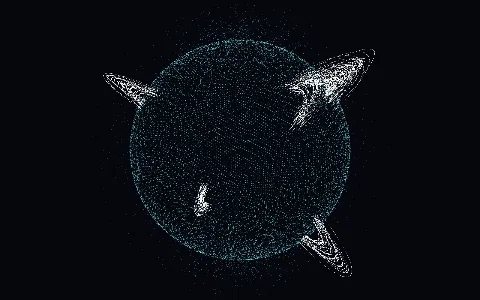
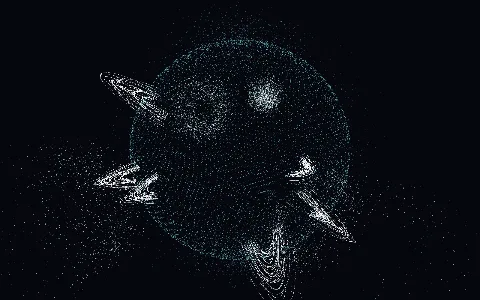
feat: Solar eruptions (prominences + CMEs) + 3D spiral galaxy (v0.1.54)
Solar Corona: active sites now erupt on a staggered cycle — confined prominences (rise & fall) and CMEs (escape) flung out as curved plasma jets; new 'eruptions' rate. Spiral Galaxy: real 3-D depth — spheroidal bulge, flaring disk scale-height, inclined view. Docs + changelog + thumbnails.

diff --git a/src/archetypes/solarCorona.ts b/src/archetypes/solarCorona.ts
@@ -28,6 +28,15 @@ class SolarCoronaArchetype implements Archetype {
   private readonly positions: Float32Array;
   private readonly colors: Float32Array;
   private spin = 0.15;
+  private erSpeed = 0.28; // eruption cycle rate
+  // erupting plasma (prominences + CMEs) — trajectories computed per frame, not baked as static points
+  private ejStart = 0; // index where the ejecta block begins
+  private ejN = 0;
+  private ejAnchor = new Float64Array(0); // unit launch anchor (site + spread)
+  private ejTan = new Float64Array(0); // tangential drift direction
+  private ejS = new Float64Array(0); // peak height
+  private ejEsc = new Uint8Array(0); // 1 = escapes (CME), 0 = rises & falls back (prominence)
+  private ejPh = new Float64Array(0); // eruption phase offset
   private t = 0;
   private buildKey = '';
   private readonly seed: number;
@@ -52,15 +61,17 @@ class SolarCoronaArchetype implements Archetype {
     const loopH = p.loopHeight ?? 0.32;
     const activity = p.activity ?? 0.5; // fraction of points spent on loops vs surface
     this.spin = p.spin ?? 0.15;
+    this.erSpeed = p.eruptions ?? 0.28;
     this.buildKey = this.keyOf(p);
     const rng = mulberry32((this.seed ^ 0x9e3779b9) >>> 0);
     const N = this.particleCount;
     const col = this.colors;
 
+    const nEject = Math.floor(N * 0.16); // erupting plasma (prominences + CMEs)
     const nLoop = Math.floor(N * clamp01(activity)); // coronal loops
     const nPlume = Math.floor(N * 0.05); // polar plumes
-    const nHalo = Math.floor(N * 0.07); // soft corona halo (limb glow + extension)
-    const nSurf = N - nLoop - nPlume - nHalo; // granular surface shell
+    const nHalo = Math.floor(N * 0.06); // soft corona halo (limb glow + extension)
+    const nSurf = N - nLoop - nPlume - nHalo - nEject; // granular surface shell
 
     let idx = 0;
     const put = (x: number, y: number, z: number, r: number, g: number, b: number): void => {
@@ -148,28 +159,85 @@ class SolarCoronaArchetype implements Archetype {
       put(nx * rad, ny * rad, nz * rad, v * 0.18, v * 0.6, v * 0.8);
     }
 
+    // ── erupting plasma: prominences (rise & fall) and CMEs (escape) launched from a few active sites,
+    //    each site cycling with a staggered phase. Trajectories are computed live in syncPositions; here
+    //    we bake each particle's launch geometry. This block is contiguous at the END of the buffer. ──
+    this.ejStart = idx;
+    this.ejN = N - idx;
+    const M = this.ejN;
+    this.ejAnchor = new Float64Array(M * 3);
+    this.ejTan = new Float64Array(M * 3);
+    this.ejS = new Float64Array(M);
+    this.ejEsc = new Uint8Array(M);
+    this.ejPh = new Float64Array(M);
+    const nSites = 4;
+    const sites: number[][] = [];
+    for (let s = 0; s < nSites; s++) {
+      const lat = (12 + 34 * rng()) * (Math.PI / 180) * (rng() < 0.5 ? 1 : -1);
+      const lon = rng() * TAU;
+      const cx = Math.cos(lat) * Math.cos(lon), cy = Math.sin(lat), cz = Math.cos(lat) * Math.sin(lon);
+      const [t1x, t1y, t1z, t2x, t2y, t2z] = tangentBasis(cx, cy, cz);
+      sites.push([cx, cy, cz, t1x, t1y, t1z, t2x, t2y, t2z, s / nSites]); // last = phase offset
+    }
+    for (let k = 0; k < M; k++) {
+      const S = sites[k % nSites];
+      const spread = 0.12 * Math.sqrt(rng());
+      const sa = rng() * TAU;
+      // anchor: site centre nudged by a small tangential spread (the eruption's footprint)
+      let ax = S[0] + (S[3] * Math.cos(sa) + S[6] * Math.sin(sa)) * spread;
+      let ay = S[1] + (S[4] * Math.cos(sa) + S[7] * Math.sin(sa)) * spread;
+      let az = S[2] + (S[5] * Math.cos(sa) + S[8] * Math.sin(sa)) * spread;
+      const al = Math.hypot(ax, ay, az) || 1; ax /= al; ay /= al; az /= al;
+      // tangential drift direction (the arc lean)
+      const ta = rng() * TAU;
+      this.ejTan[k * 3] = S[3] * Math.cos(ta) + S[6] * Math.sin(ta);
+      this.ejTan[k * 3 + 1] = S[4] * Math.cos(ta) + S[7] * Math.sin(ta);
+      this.ejTan[k * 3 + 2] = S[5] * Math.cos(ta) + S[8] * Math.sin(ta);
+      this.ejAnchor[k * 3] = ax; this.ejAnchor[k * 3 + 1] = ay; this.ejAnchor[k * 3 + 2] = az;
+      const esc = rng() < 0.35;
+      this.ejEsc[k] = esc ? 1 : 0;
+      this.ejS[k] = esc ? 0.8 + 1.0 * rng() : 0.3 + 0.5 * rng(); // CMEs fly higher than confined prominences
+      this.ejPh[k] = S[9] + (rng() - 0.5) * 0.12; // share the site's phase (erupt together), slight jitter
+      const bri = 1.1 + 0.5 * rng();
+      put(ax * R, ay * R, az * R, 0.55 * bri, 0.92 * bri, 1.0 * bri); // hot cyan-white plasma
+    }
+
     // any leftover slots (rounding) → dim surface points at the origin-safe shell
     while (idx < N) put(0, R, 0, 0.02, 0.1, 0.14);
     this.syncPositions();
   }
 
   private syncPositions(): void {
-    const N = this.particleCount;
     const pos = this.positions;
+    const t = this.t;
     // solar rotation about a slightly tilted axis
-    const th = this.spin * this.t;
+    const th = this.spin * t;
     const ct = Math.cos(th), st = Math.sin(th);
     const tilt = 0.12, ctl = Math.cos(tilt), stl = Math.sin(tilt);
-    for (let i = 0; i < N; i++) {
-      const x0 = this.bx[i], y0 = this.by[i], z0 = this.bz[i];
-      // rotate about Y (solar rotation)
-      const rx = x0 * ct + z0 * st;
+    const place = (i: number, x0: number, y0: number, z0: number): void => {
+      const rx = x0 * ct + z0 * st; // rotate about Y (solar rotation)
       const rz = -x0 * st + z0 * ct;
-      // small fixed tilt about X so the rotation axis leans
       const o = i * 3;
       pos[o] = rx;
-      pos[o + 1] = y0 * ctl - rz * stl;
+      pos[o + 1] = y0 * ctl - rz * stl; // small fixed tilt about X so the axis leans
       pos[o + 2] = y0 * stl + rz * ctl;
+    };
+    // static structure (surface shell, coronal loops, plumes, halo)
+    for (let i = 0; i < this.ejStart; i++) place(i, this.bx[i], this.by[i], this.bz[i]);
+    // erupting plasma: each particle rises along a rise-&-fall (prominence) or escape (CME) height
+    // envelope over its eruption phase, drifting tangentially into an arc, then rotates with the Sun
+    for (let k = 0; k < this.ejN; k++) {
+      const ph = t * this.erSpeed + this.ejPh[k];
+      const tau = ph - Math.floor(ph); // eruption phase ∈ [0,1)
+      const hEnv = this.ejEsc[k] ? tau : 4 * tau * (1 - tau);
+      const h = this.ejS[k] * hEnv;
+      const drift = tau * 0.5;
+      let dx = this.ejAnchor[k * 3] + this.ejTan[k * 3] * drift;
+      let dy = this.ejAnchor[k * 3 + 1] + this.ejTan[k * 3 + 1] * drift;
+      let dz = this.ejAnchor[k * 3 + 2] + this.ejTan[k * 3 + 2] * drift;
+      const l = Math.hypot(dx, dy, dz) || 1;
+      const rad = R + h;
+      place(this.ejStart + k, (dx / l) * rad, (dy / l) * rad, (dz / l) * rad);
     }
   }
 
@@ -180,6 +248,7 @@ class SolarCoronaArchetype implements Archetype {
       return;
     }
     this.spin = p.spin ?? 0.15;
+    this.erSpeed = p.eruptions ?? 0.28;
     this.t += dt;
     this.syncPositions();
   }
@@ -252,6 +321,7 @@ export const solarCoronaFactory: ArchetypeFactory = {
     { key: 'regions', label: 'active regions', min: 1, max: 12, step: 1, default: 6, rebuild: true },
     { key: 'loopHeight', label: 'loop height', min: 0.1, max: 0.6, step: 0.02, default: 0.32, rebuild: true },
     { key: 'activity', label: 'activity', min: 0.3, max: 0.8, step: 0.02, default: 0.5, rebuild: true }, // loops vs surface
+    { key: 'eruptions', label: 'eruptions', min: 0, max: 0.8, step: 0.02, default: 0.28 }, // prominence/CME cycle rate
     { key: 'spin', label: 'rotation', min: 0, max: 1, step: 0.02, default: 0.15 },
   ],
   defaultParticleCount: 220_000,

diff --git a/src/ui/learn/docs.extra.ts b/src/ui/learn/docs.extra.ts
@@ -2455,16 +2455,18 @@ o[1] = p.b * x[0];`,
     about:
       "The Sun in extreme ultraviolet — the way space telescopes like SDO watch it storm. What glows isn't fire but million-degree plasma trapped on MAGNETIC FIELD LINES. Each active region is a pair of opposite-polarity sunspots (magnetic footpoints), and coronal loops arch between them along the field, brightening when the region flares. Scattered across the disk in the ±30° latitude bands where sunspots emerge, with a mottled granular surface, a glowing limb, and plumes at the poles where the field opens to the solar wind. Lit in the teal of the 171 Å channel.",
     howItWorks:
-      "Rather than simulate the plasma fluid, we build the magnetic structure it rides. A Fibonacci-sphere shell of points makes the granular surface (limb-brightened for free by additive density where the line of sight grazes the shell). Active regions are placed at sunspot latitudes; each is a fan of coronal loops, and every loop is a semicircular arc between two footpoints — a great-circle path (slerp) lifted to a height that grows with the footpoint separation, brightest and whitest at the feet. Near the poles, short near-radial streamers stand in for open-field plumes, and a faint outer shell gives the corona its glow. The whole disk turns with the ~25-day solar rotation. Bounded by construction.",
+      "Rather than simulate the plasma fluid, we build the magnetic structure it rides. A Fibonacci-sphere shell of points makes the granular surface (limb-brightened for free by additive density where the line of sight grazes the shell). Active regions are placed at sunspot latitudes; each is a fan of coronal loops, and every loop is a semicircular arc between two footpoints — a great-circle path (slerp) lifted to a height that grows with the footpoint separation, brightest and whitest at the feet. A handful of active sites also ERUPT: on a staggered cycle they fling out hot plasma along a height envelope — a rise-and-fall arc for confined prominences, or an ever-rising escape for a coronal mass ejection — drifting tangentially into a curved jet. Near the poles, short near-radial streamers stand in for open-field plumes; a faint outer shell gives the corona its glow; and the whole disk turns with the ~25-day rotation. Bounded by construction.",
     equations: [
       { label: 'coronal loop = arc between magnetic footpoints', latex: '\\mathbf{r}(s) = \\big(R + H\\sin\\pi s\\big)\\,\\operatorname{slerp}(\\mathbf{f}_+, \\mathbf{f}_-, s), \\quad s \\in [0,1]' },
       { label: 'footpoints straddle the region centre', latex: '\\mathbf{f}_\\pm = \\mathbf{c}\\cos\\delta \\pm \\hat{\\mathbf{d}}\\sin\\delta' },
       { label: 'active regions in the sunspot bands', latex: '\\lvert\\text{lat}\\rvert \\in [10^\\circ,\\ 42^\\circ]' },
+      { label: 'eruption height envelope over phase τ', latex: 'h(\\tau) = s\\cdot\\begin{cases} \\tau & \\text{CME (escapes)} \\\\ 4\\tau(1-\\tau) & \\text{prominence (falls back)} \\end{cases}' },
     ],
     params: [
       { key: 'regions', symbol: 'n', meaning: 'number of active regions (sunspot loop bundles)' },
       { key: 'loopHeight', symbol: 'H', meaning: 'how high the coronal loops arch above the surface' },
       { key: 'activity', symbol: '\\alpha', meaning: 'share of the corona spent on loops vs the quiet surface' },
+      { key: 'eruptions', symbol: '\\omega_e', meaning: 'how often the active sites erupt (prominence + CME cycle rate)' },
       { key: 'spin', symbol: '\\nu', meaning: 'solar rotation rate' },
     ],
     code: "// each active region: a fan of loops between two magnetic footpoints\nconst f_plus  = c*cos(sep) + dir*sin(sep);   // footpoints straddle region centre c\nconst f_minus = c*cos(sep) - dir*sin(sep);\nfor (s in 0..1) {                             // arc from foot to foot\n  const base = slerp(f_plus, f_minus, s);     // great-circle path\n  const rad  = R + H*sin(PI*s);               // lifted into a loop\n  point = base * rad;  brightness = hot at the feet, teal along the crown\n}",

diff --git a/src/archetypes/spiralGalaxy.ts b/src/archetypes/spiralGalaxy.ts
@@ -62,16 +62,16 @@ class SpiralGalaxyArchetype implements Archetype {
       let bright: number;
       let r0: number, g0: number, b0: number;
       if (i < nBulge) {
-        // bright central bulge (near-circular, warm) — the innermost ellipses align into a bar
+        // bright central bulge — a 3-D spheroid (vertical extent ≈ its in-plane size, rounder at core)
         a = 0.015 + 0.22 * Math.sqrt(rng());
-        this.z0[i] = (rng() - 0.5) * 0.06;
+        this.z0[i] = (rng() * 2 - 1) * 0.3 * Math.sqrt(Math.max(0, 1 - (a / 0.24) * (a / 0.24)));
         bright = (1.3 + 0.6 * rng()) * (1 - a / 0.24) + 0.5; // hot, brightest at the very core
         r0 = 1.0; g0 = 0.82; b0 = 0.5;
       } else {
-        // disk: radius spread out to the rim, thinner vertically
+        // disk: radius spread out to the rim, with a thin scale height that FLARES outward
         a = 0.2 + 1.35 * Math.pow(rng(), 0.85);
-        this.z0[i] = (rng() - 0.5) * 0.03;
         const f = (a - 0.2) / 1.35; // 0 inner disk → 1 rim
+        this.z0[i] = ((rng() + rng() + rng() - 1.5) / 1.5) * (0.03 + 0.06 * f); // Gaussian-ish, flaring
         // warm-white inner disk → blue outer arms
         r0 = 1.0 - 0.5 * f;
         g0 = 0.84 - 0.2 * f;
@@ -104,9 +104,9 @@ class SpiralGalaxyArchetype implements Archetype {
       const ey = b * Math.sin(psi);
       const ct = Math.cos(th0), st = Math.sin(th0);
       const o = i * 3;
-      pos[o] = ct * ex - st * ey; // galaxy lies in the X–Y plane, facing the camera
-      pos[o + 1] = st * ex + ct * ey;
-      pos[o + 2] = this.z0[i];
+      pos[o] = ct * ex - st * ey; // galaxy disk lies in the X–Z plane (horizontal)…
+      pos[o + 1] = this.z0[i]; // …with real thickness in Y (scale height + 3-D bulge)
+      pos[o + 2] = st * ex + ct * ey;
     }
   }
 

diff --git a/src/app/bootstrap.ts b/src/app/bootstrap.ts
@@ -386,7 +386,7 @@ export async function bootstrap(canvas: HTMLCanvasElement): Promise<Engine> {
     // The spiral galaxy is a flat disk — view it near face-on with a slight tilt so the arms + bar read.
     if ($archetypeId.get() === 'spiralGalaxy') {
       controls.target.set(0, 0, 0);
-      camera.position.set(0, 0.9, 3.6);
+      camera.position.set(0, 1.8, 2.9);
       controls.update();
     }
     scheduleLle();
@@ -947,7 +947,7 @@ export async function bootstrap(canvas: HTMLCanvasElement): Promise<Engine> {
           else if (id === 'dandelion') { controls.target.set(0, 0, 0); camera.position.set(0.6, 0.4, 3.1); }
           else if (id === 'lorenzSwarm' || id === 'attractorMenagerie') { controls.target.set(0, 0, 0); camera.position.set(0, 0, 4.4); }
           else if (id === 'solarCorona') { controls.target.set(0, 0, 0); camera.position.set(0, 0, 2.8); }
-          else if (id === 'spiralGalaxy') { controls.target.set(0, 0, 0); camera.position.set(0, 0.9, 3.6); }
+          else if (id === 'spiralGalaxy') { controls.target.set(0, 0, 0); camera.position.set(0, 1.8, 2.9); }
           else camera.position.set(2.4, 1.5, 4.4);
         }
         controls.update();

diff --git a/src/meta/changelog.ts b/src/meta/changelog.ts
@@ -18,6 +18,17 @@ export interface Release {
 
 export const RELEASES: Release[] = [
   {
+    "version": "0.1.54",
+    "date": "2026-06-30",
+    "title": "Solar eruptions + a 3-D galaxy",
+    "summary": "Two upgrades: the Sun now erupts (animated prominences + CMEs, not just rotation), and the spiral galaxy gained real 3-D depth — a spheroidal bulge, a flaring disk, and an inclined view.",
+    "newSystems": [],
+    "notes": [
+      "Solar Corona: active sites now ERUPT on a staggered cycle — confined prominences that rise and fall back, and coronal mass ejections that escape — flung out as curved plasma jets. New 'eruptions' rate control",
+      "Spiral Galaxy: no longer a flat sheet — a 3-D spheroidal bulge, a disk with a flaring scale height, and a tilted view so the depth reads"
+    ]
+  },
+  {
     "version": "0.1.53",
     "date": "2026-06-30",
     "title": "The active Sun + a spiral galaxy",

diff --git a/src/version.ts b/src/version.ts
@@ -2,4 +2,4 @@
 // image records the version that produced it). Bump the PATCH on every shipped change — new
 // systems, features, or any change to the snapshot/import file format or its validation — even
 // when backward-compatible. Bump MINOR for larger feature waves, MAJOR for breaking format changes.
-export const APP_VERSION = '0.1.53';
+export const APP_VERSION = '0.1.54';
